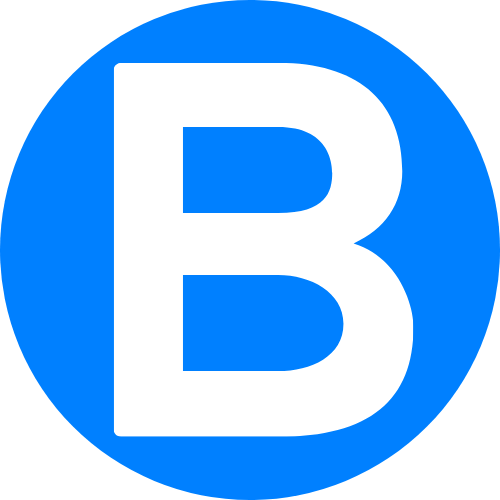
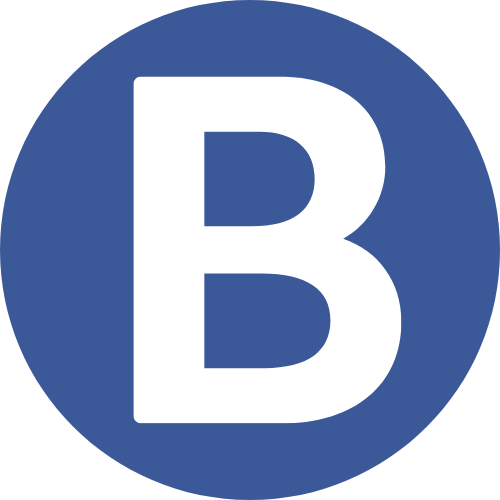
changed color of assets

diff --git a/user/src/formComponents/EnrollmentForm.jsx b/user/src/formComponents/EnrollmentForm.jsx
@@ -5,27 +5,6 @@ import { getStorage, ref } from "firebase/storage";
 
 
 export default function EnrollmentForm() {
-  // Get a reference to the storage service, which is used to create references in your storage bucket
-  const storage = getStorage();
-
-  // Create a storage reference from our storage service
-  const storageRef = ref(storage);
-  // Points to 'images'
-const imagesRef = ref(storageRef, 'images');
-
-// Points to 'images/space.jpg'
-// Note that you can use variables to create child values
-const fileName = 'space.jpg';
-const spaceRef = ref(imagesRef, fileName);
-
-// File path is 'images/space.jpg'
-const path = spaceRef.fullPath;
-
-// File name is 'space.jpg'
-const name = spaceRef.name;
-
-// Points to 'images'
-const imagesRefAgain = spaceRef.parent;
 
   return (
     <>
